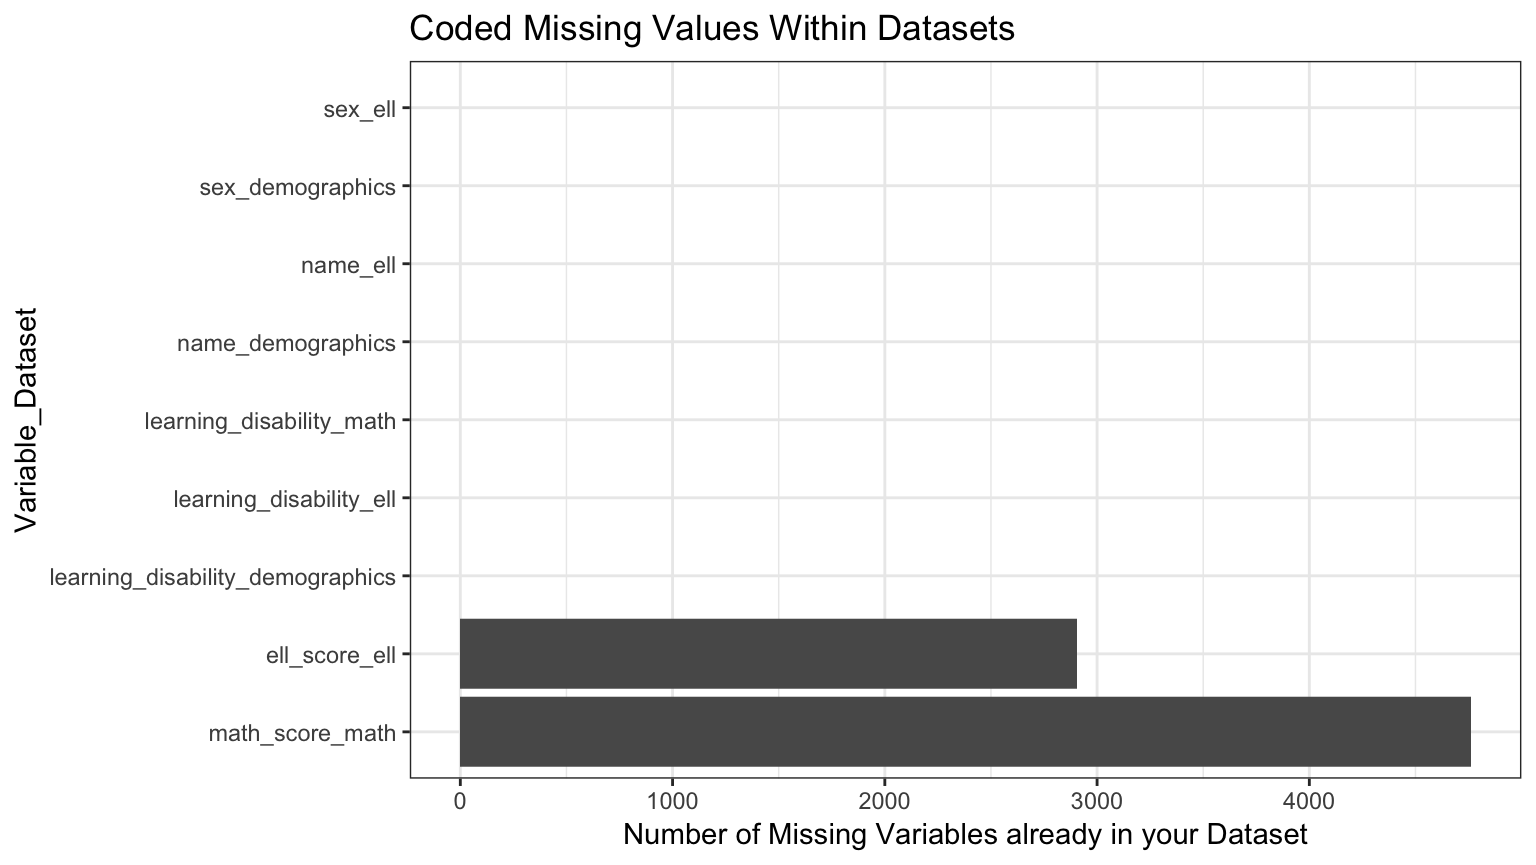
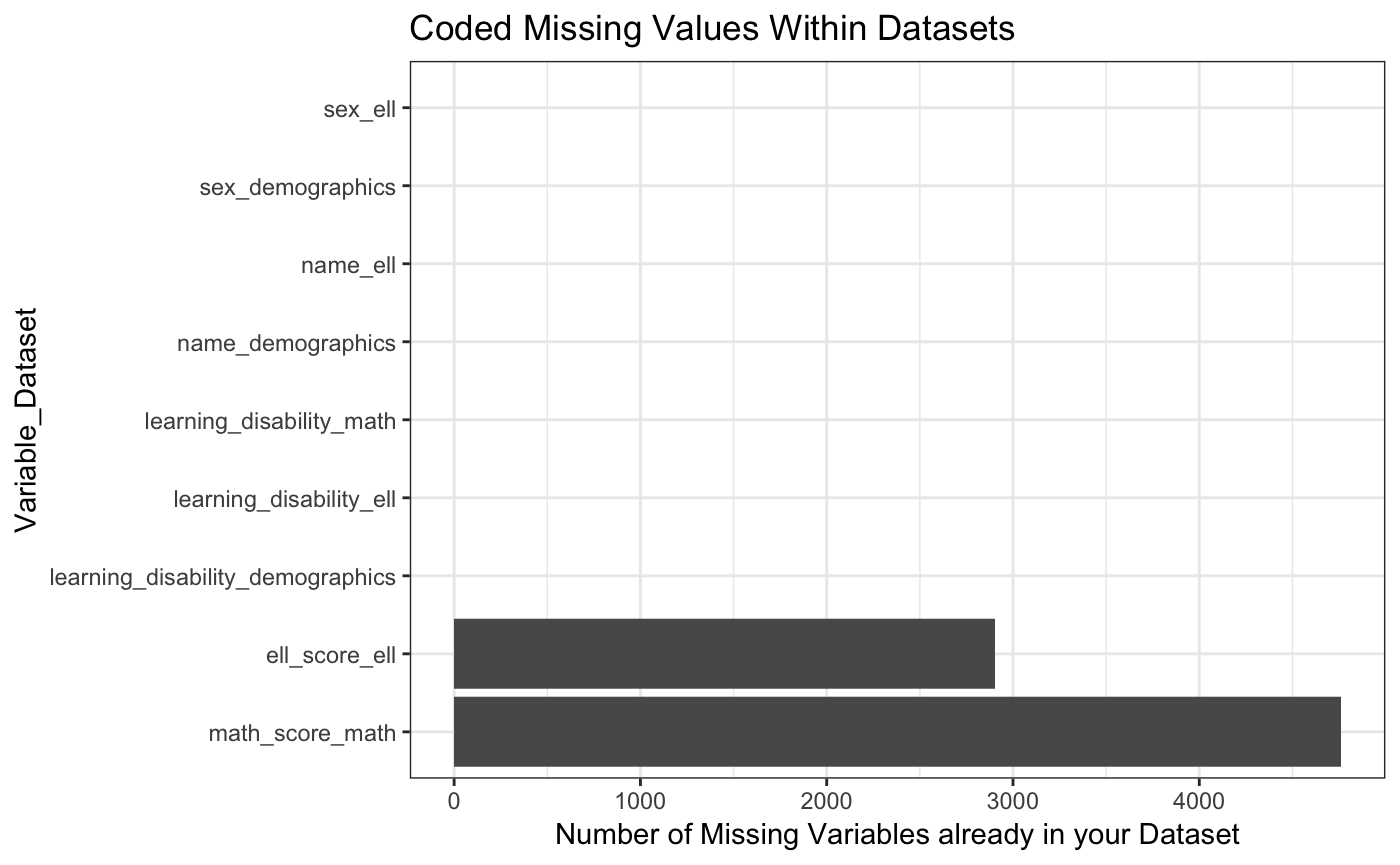
readme

diff --git a/docs/index.html b/docs/index.html
@@ -124,10 +124,10 @@
 <a class="sourceLine" id="cb4-10" data-line-number="10"><span class="co">#&gt; 4                   0 learning_disability                        0.00</span></a>
 <a class="sourceLine" id="cb4-11" data-line-number="11"><span class="co">#&gt; </span></a>
 <a class="sourceLine" id="cb4-12" data-line-number="12"><span class="co">#&gt; [[3]]</span></a></code></pre></div>
-<p><img src="../../../Google%20Drive/3.%20CoRe/combineR/man/figures/README-unnamed-chunk-4-1.png" width="768"></p>
+<p><img src="reference/figures/README-unnamed-chunk-4-1.png" width="700"></p>
 <pre><code>#&gt; 
 #&gt; [[4]]</code></pre>
-<p><img src="../../../Google%20Drive/3.%20CoRe/combineR/man/figures/README-unnamed-chunk-4-2.png" width="768"></p>
+<p><img src="reference/figures/README-unnamed-chunk-4-2.png" width="700"></p>
 </div>
 <div id="count_keys" class="section level2">
 <h2 class="hasAnchor">
@@ -171,10 +171,10 @@
 <a class="sourceLine" id="cb7-14" data-line-number="14"><span class="co">#&gt; 9 ell_score_ell                             2904        20517</span></a>
 <a class="sourceLine" id="cb7-15" data-line-number="15"><span class="co">#&gt; </span></a>
 <a class="sourceLine" id="cb7-16" data-line-number="16"><span class="co">#&gt; [[2]]</span></a></code></pre></div>
-<p><img src="../../../Google%20Drive/3.%20CoRe/combineR/man/figures/README-unnamed-chunk-6-1.png" width="768"></p>
+<p><img src="reference/figures/README-unnamed-chunk-6-1.png" width="700"></p>
 <pre><code>#&gt; 
 #&gt; [[3]]</code></pre>
-<p><img src="../../../Google%20Drive/3.%20CoRe/combineR/man/figures/README-unnamed-chunk-6-2.png" width="768"></p>
+<p><img src="reference/figures/README-unnamed-chunk-6-2.png" width="700"></p>
 </div>
 <div id="example-insights" class="section level2">
 <h2 class="hasAnchor">
